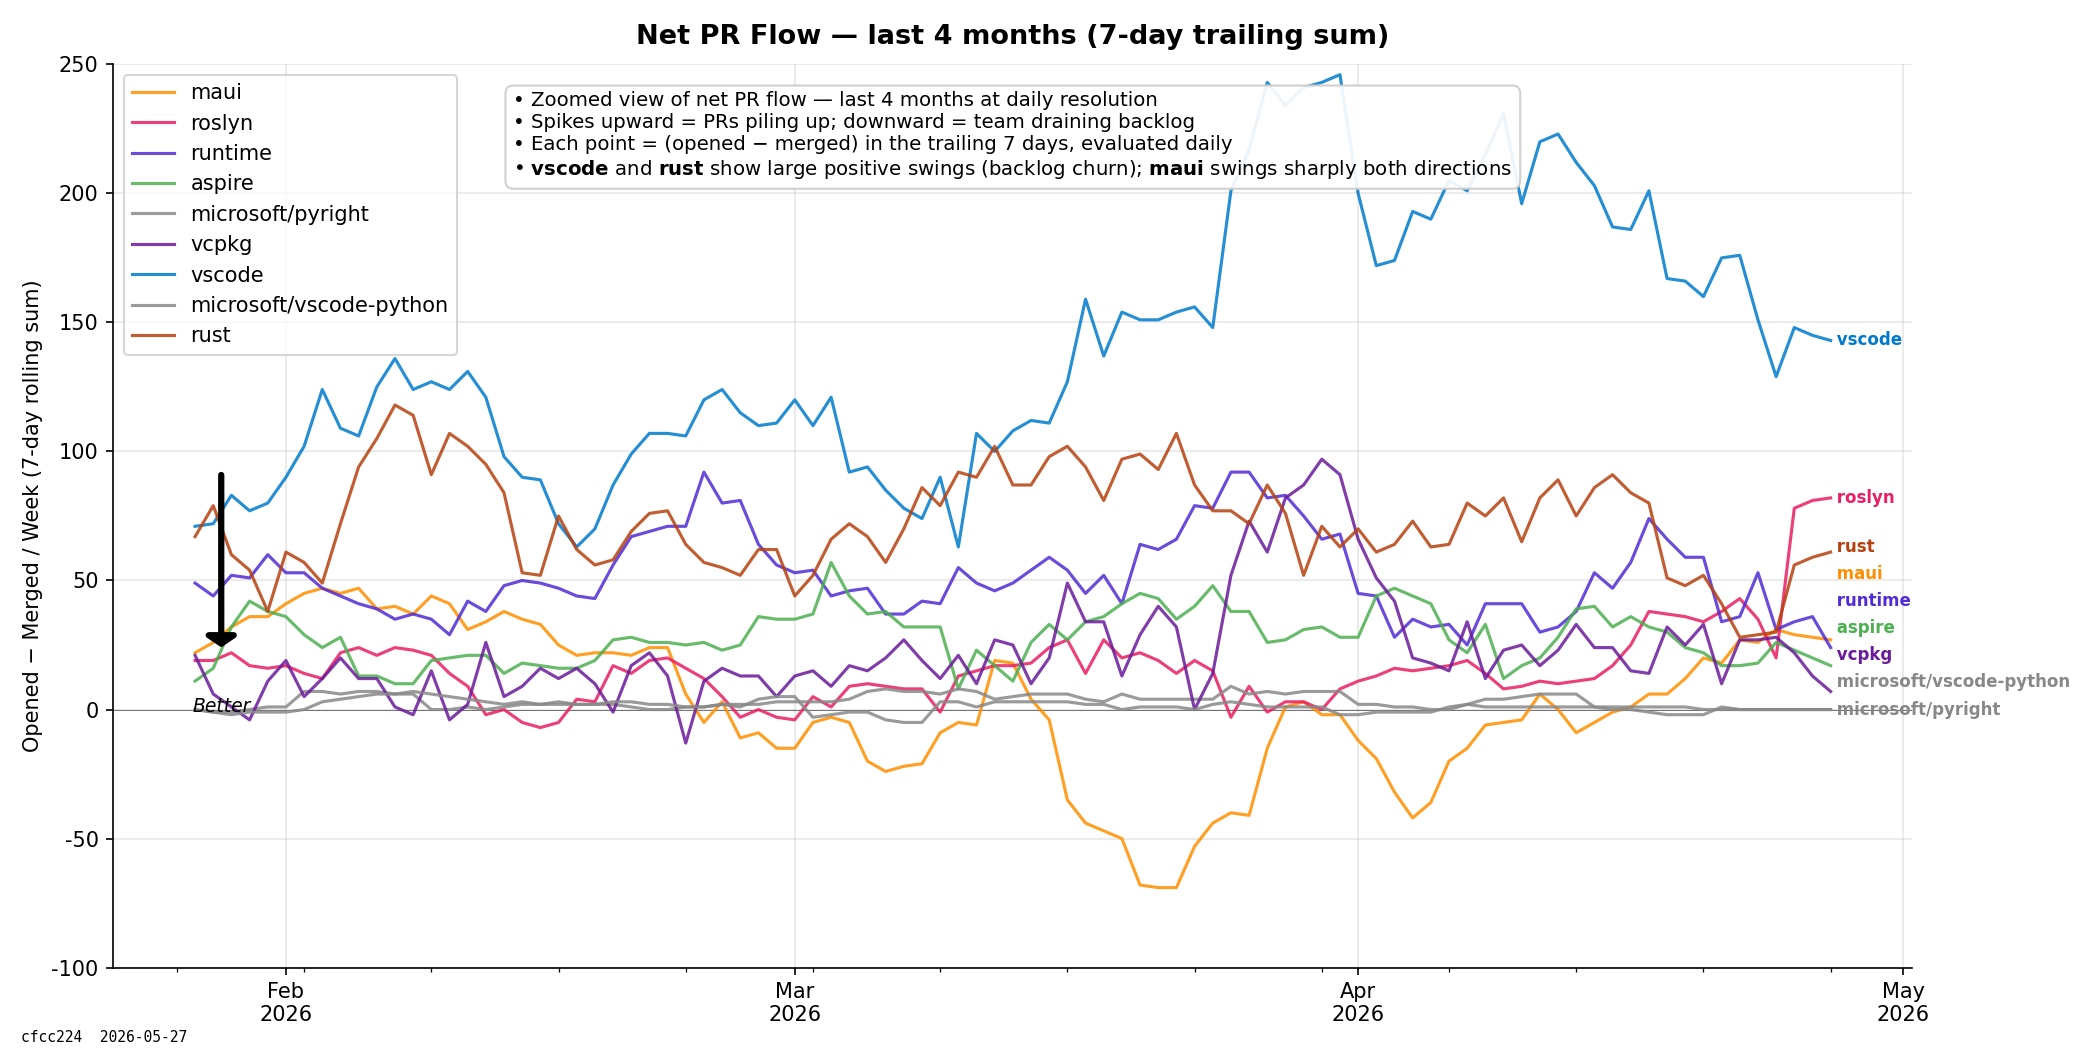
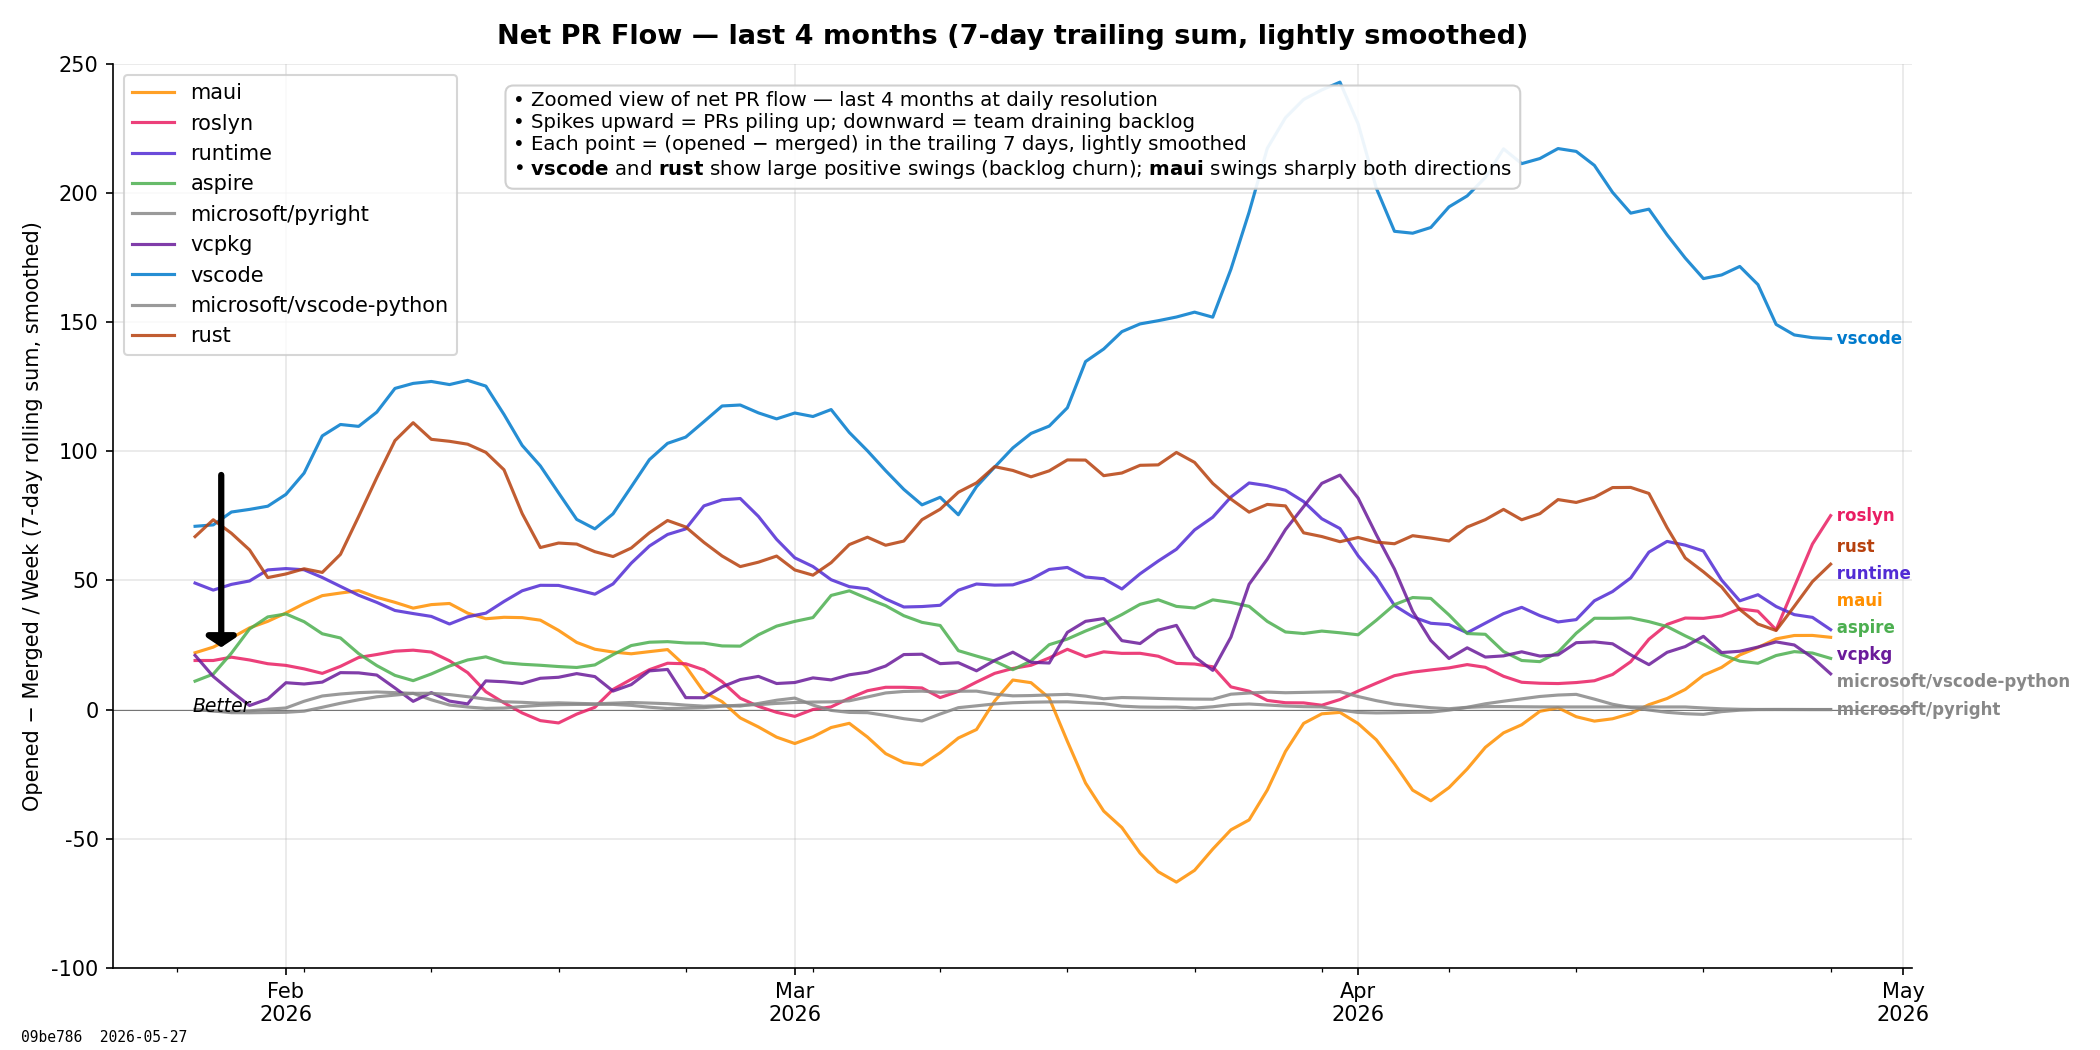
Lightly smooth 120-day net PR flow chart to reduce jagged noise (#28)
* Initial plan

* Smooth net PR flow zoomed chart series

* Include updated smoothed net flow chart PNG

---------

diff --git a/analyze.py b/analyze.py
@@ -3057,7 +3057,7 @@ def chart_pr_merge_rate_zoomed(all_items, output_dir):
 
 
 def chart_pr_opened_vs_merged_zoomed(all_items, output_dir):
-    """Net PR Flow (Opened - Merged) over last 120 days, daily 7-day rolling sum."""
+    """Net PR Flow (Opened - Merged) over last 120 days, lightly smoothed."""
     today = datetime.now().date()
     cutoff = today - timedelta(days=120)
     fetch_start = cutoff - timedelta(days=6)
@@ -3076,8 +3076,8 @@ def chart_pr_opened_vs_merged_zoomed(all_items, output_dir):
     last_day = min(today - timedelta(days=1), _latest_date) if _latest_date else today - timedelta(days=1)
 
     fig, ax = plt.subplots(figsize=(14, 7))
-    setup_axes(ax, "Net PR Flow — last 4 months (7-day trailing sum)",
-               "Opened − Merged / Week (7-day rolling sum)")
+    setup_axes(ax, "Net PR Flow — last 4 months (7-day trailing sum, lightly smoothed)",
+               "Opened − Merged / Week (7-day rolling sum, smoothed)")
 
     ax.axhline(y=0, color="black", linewidth=0.5, alpha=0.5)
 
@@ -3107,11 +3107,12 @@ def chart_pr_opened_vs_merged_zoomed(all_items, output_dir):
             days.append(d)
             rolling.append(o - m)
             d += timedelta(days=1)
-        ax.plot(days, rolling,
+        smoothed = smooth(rolling, window=5)
+        ax.plot(days, smoothed,
                 color=get_color(repo), label=get_short(repo),
                 linewidth=1.5, alpha=0.85)
-        visible_data.append(rolling)
-        line_ends.append((days, rolling, get_short(repo), get_color(repo)))
+        visible_data.append(smoothed)
+        line_ends.append((days, smoothed, get_short(repo), get_color(repo)))
 
     if not visible_data:
         plt.close(fig)
@@ -3129,7 +3130,7 @@ def chart_pr_opened_vs_merged_zoomed(all_items, output_dir):
     add_insight_box(ax, [
         "Zoomed view of net PR flow — last 4 months at daily resolution",
         "Spikes upward = PRs piling up; downward = team draining backlog",
-        "Each point = (opened − merged) in the trailing 7 days, evaluated daily",
+        "Each point = (opened − merged) in the trailing 7 days, lightly smoothed",
         "vscode and rust show large positive swings (backlog churn); maui swings sharply both directions",
     ])
     _pad_date_xlim(fig)
